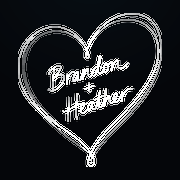
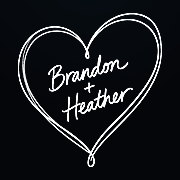
v8.9.4

Changed region(s): [[0.0833, 0.0556, 0.9167, 0.9444]]

diff --git a/md files/CHANGELOG.md b/md files/CHANGELOG.md
@@ -1,5 +1,34 @@
 # Changelog
 
+## 2026-08-09 - budget-vite: home-screen icon was blurry
+
+Assets only — no markup change. The first version dilated the stroke AFTER
+downscaling to 180, which does not draw a thicker line, it smears a 1px line
+into a 3px grey band. That is what read as blur on the home screen.
+
+Rebuilt pipeline, in `budget-vite/public/`:
+
+- **Autocontrast the alpha first.** `heart.png`'s line peaks at 255 but averages
+  11 — most of its width is partial coverage. Fine at 816px, a grey wash once it
+  is one pixel wide.
+- **Thicken at 1024, then downsample once.** The stroke is ~5px at source, i.e.
+  ~1.1px at 180 — too thin to survive. Dilating at the master resolution and
+  resampling once gives a solid line instead of a soft one. `MaxFilter(5)`:
+  enough to read, not enough to close the counters in the script lettering
+  (7 starts filling in "Brandon").
+- **Unsharp after the resample**, which is where the softness actually comes
+  from.
+- The 32px favicon gets a much heavier dilation (11) and no corner glow — the
+  names are illegible at that size regardless, so it is weighted to read as a
+  heart mark rather than a smudge.
+
+180 is the exact tile size on a 3x iPhone, so no size change was needed —
+nothing was being upscaled, the source was just soft.
+
+**iOS caches home-screen icons hard.** Remove the tile and re-add it after
+deploying, or it will keep showing the old one.
+
+
 ## 2026-08-09 - budget-vite: status strip is two tiles, side by side
 
 ### `src/pages/Today.tsx`
